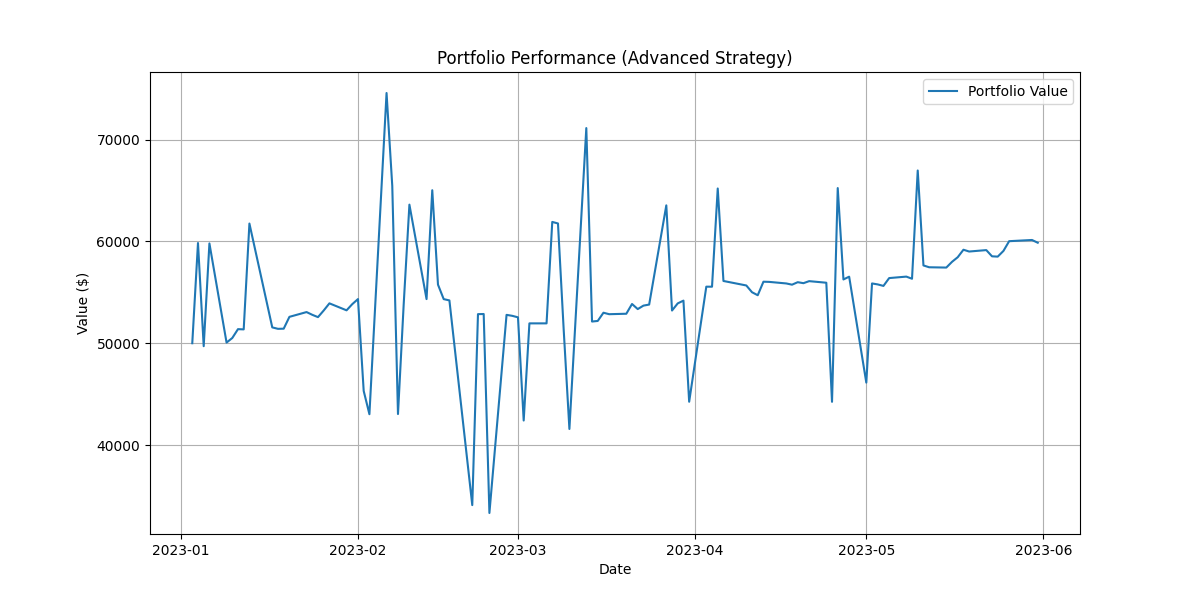
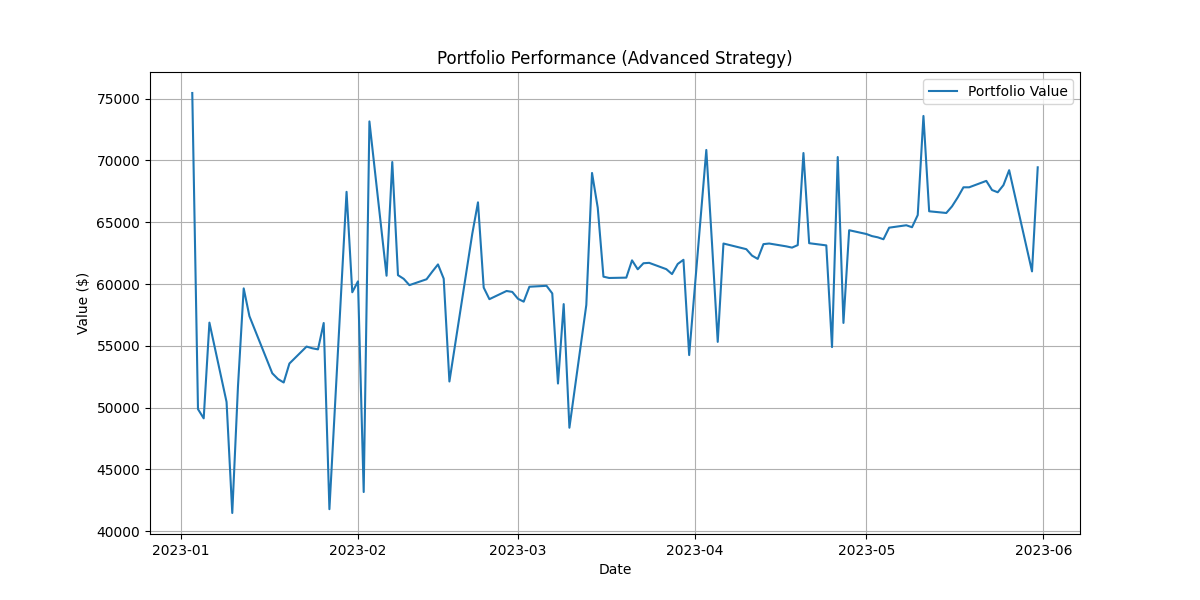
Aggressive Growth: Compounding, ATR 4.0, Threshold 2

diff --git a/backtester.py b/backtester.py
@@ -2,7 +2,7 @@ import pandas as pd
 import numpy as np
 
 class Backtester:
-    def __init__(self, initial_capital=10000, trailing_stop_atr_multiplier=3.0):
+    def __init__(self, initial_capital=10000, trailing_stop_atr_multiplier=4.0):
         self.initial_capital = initial_capital
         self.cash = initial_capital
         self.positions = {} # {symbol: shares}
@@ -51,9 +51,11 @@ class Backtester:
                 
                 # Execute Trades
                 if signal == 1: # Buy
-                    allocation = self.initial_capital * 0.2
+                    # Aggressive Compounding: Invest 30% of AVAILABLE CASH per trade
+                    allocation = self.cash * 0.3
                     
-                    if self.cash >= allocation and symbol not in self.positions:
+                    # Ensure minimum trade size to avoid tiny trades
+                    if allocation > 1000 and symbol not in self.positions:
                         shares_to_buy = int(allocation // price)
                         if shares_to_buy > 0:
                             cost = shares_to_buy * price

diff --git a/strategy.py b/strategy.py
@@ -56,10 +56,10 @@ class AdvancedPatternStrategy(BaseStrategy):
             df.loc[df['Sentiment'] < -0.1, 'Score'] -= 2
 
         # Decision Threshold
-        # Buy if Score >= 3 (Moderate Confluence - tuned for earlier entry)
+        # Buy if Score >= 2 (Aggressive Entry - Catch all trends)
         # Sell if Score <= 0 (Weakness)
         
-        df.loc[df['Score'] >= 3, 'Signal'] = 1
+        df.loc[df['Score'] >= 2, 'Signal'] = 1
         df.loc[df['Score'] <= 0, 'Signal'] = -1
         
         # Force Sell on Death Cross (Trend Reversal)
